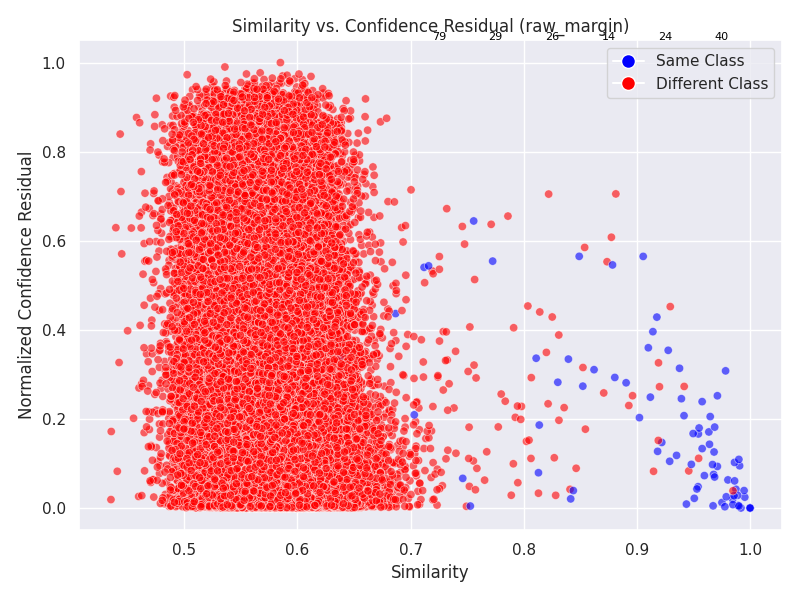
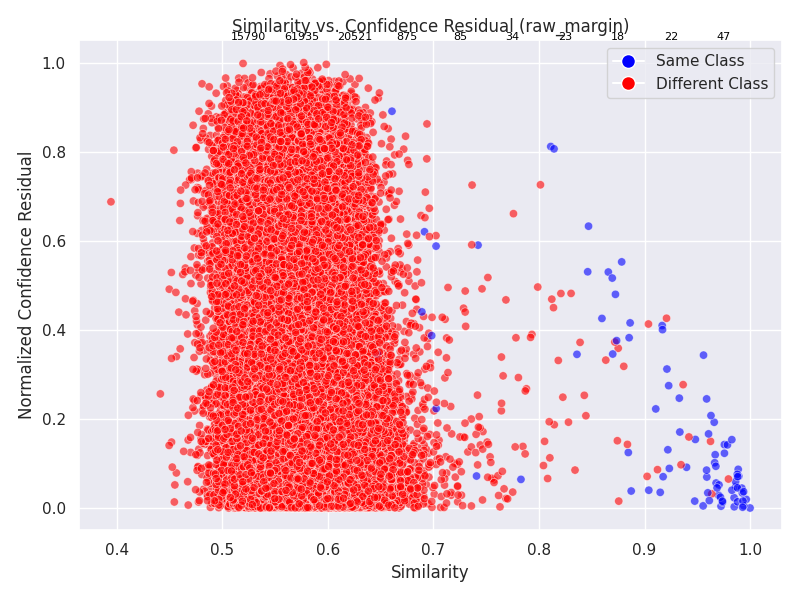
hv

diff --git a/test.py b/test.py
@@ -50,7 +50,7 @@ def main(args):
         'labels': in_labels
     }
 
-    similarity_bins = [f"{i}-{i+5}" for i in range(70, 100, 5)]
+    similarity_bins = [f"{i}-{i+5}" for i in range(50, 100, 5)]
     for key in in_scores_dict:
         similarities = []
         confidence_residuals = []
@@ -73,8 +73,7 @@ def main(args):
                 colors.append('red')  
 
         for similarity in similarities:
-            if similarity * 100 >= 70:
-                for i in range(70, 100, 5):
+                for i in range(50, 100, 5):
                     if i <= (similarity * 100) < i + 5:
                         bin_label = f"{i}-{i+5}"
                         similarity_counts[bin_label] += 1
